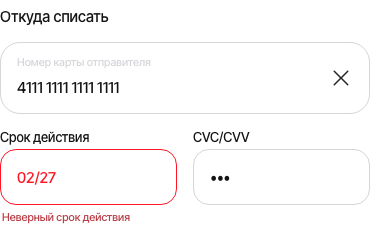
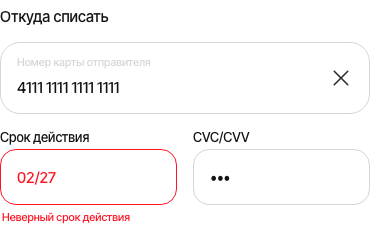
Match expiry error caption color to field border

Changed region(s): [[0.0, 0.9333, 0.3568, 0.9956]]

diff --git a/src/styles.css b/src/styles.css
@@ -1269,5 +1269,5 @@ body:has(.card-transfer) .home-indicator { height:calc(32px + env(safe-area-inse
 .guest-inline-source #guest-source-error { margin:4px 18px 0; color:#b83d45; font:500 11px/16px 'Inter Tight',sans-serif; }
 
 .card-details-row input[data-expiry][aria-invalid=true] { border-color:#ff1524; color:#ff1524; }
-.card-details-row .expiry-field-error { display:block; margin:4px 2px 0; color:#b83d45; font:500 11px/16px 'Inter Tight',sans-serif; }
+.card-details-row .expiry-field-error { display:block; margin:4px 2px 0; color:#ff1524; font:500 11px/16px 'Inter Tight',sans-serif; }
 .card-details-row .expiry-field-error[hidden] { display:none; }
